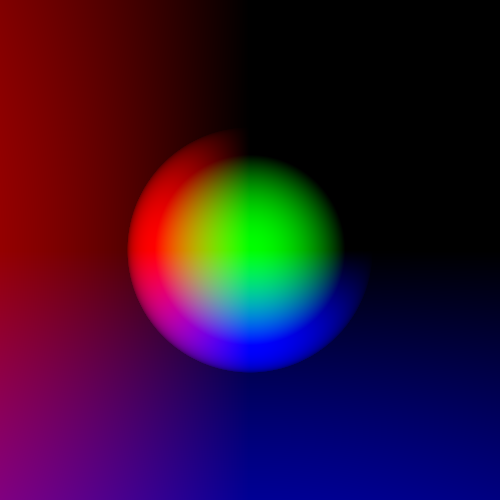
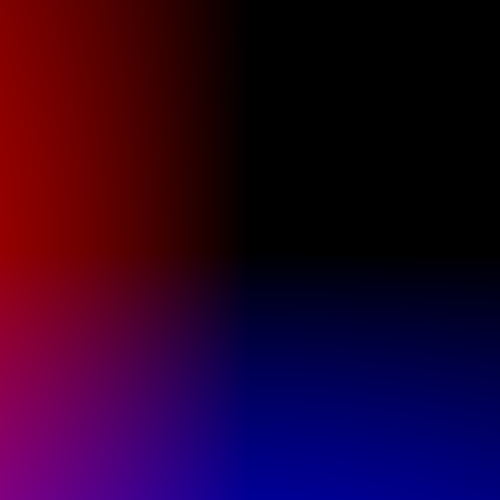
Added second sphere to test multi ball reflection. Fixed hit being detected behind the ray.

Changed region(s): [[0.24, 0.27, 0.75, 0.75]]

diff --git a/RayTracer.py b/RayTracer.py
@@ -66,13 +66,16 @@ class Camera:
         bounce = 0
         while bounce < self.maxBounces+1:
             bounce += 1
+            hitAnything = False
             for sphere in self.scene.shapeList:
                 hit,hitPos,hitNormal = raySphereIntersection(pixelRay,sphere)
                 if hit:
-                    pixelRay.direction = -Vec3.reflect(pixelRay.direction,hitNormal)
+                    pixelRay.direction = Vec3.reflect(pixelRay.direction,hitNormal)
                     pixelRay.origin = hitPos
-                # return hitNormal
-                # return Vec3(1,1,1)
+                    hitAnything = True
+            
+            if not hitAnything:
+                break
         
         return -pixelRay.direction
     

diff --git a/intersections.py b/intersections.py
@@ -15,12 +15,19 @@ def raySphereIntersection(ray:Ray,sphere:Sphere) -> tuple[bool, Vec3,Vec3]:
         d = -Vec3.dot(u,o-c)
         hitPoint = o+u*d
         normal = Vec3.getNormal(hitPoint,c)
-        return True,hitPoint,normal
+        if d >= 0:
+            return True,hitPoint,normal
+        else:
+            return False,Vec3.ZERO,Vec3.ZERO
     elif nabla > 0:
         d = -Vec3.dot(u,o-c) - sqrt(nabla)
         # dFurthest = -Vec3.dot(u,o-c) + sqrt(nabla)
         hitPoint = o+u*d
         normal = Vec3.getNormal(hitPoint,c)
-        return True,hitPoint,normal
+        if d >= 0:
+            return True,hitPoint,normal
+        else:
+            return False,Vec3.ZERO,Vec3.ZERO
+
     else:
         return False,Vec3.ZERO,Vec3.ZERO

diff --git a/main.py b/main.py
@@ -4,7 +4,8 @@ from Shapes import Scene, Sphere
 
 from time import time
 
-scene = Scene([Sphere(Vec3(0,3,0),1)])
+# scene = Scene([Sphere(Vec3(0,3,0),1),Sphere(Vec3(2,3,0),1)])
+scene = Scene([Sphere(Vec3(0,-3,0),1)])
 
 cam = Camera(Vec3(0,0,0),Vec3(0,1,0),(500,500),25,scene,0)
 

diff --git a/Shapes.py b/Shapes.py
@@ -6,7 +6,7 @@ class Ray:
         self.direction = direction
 
 class Scene:
-    def __init__(self,shapeList:list[Sphere]):
+    def __init__(self,shapeList:list['Sphere']):
         self.shapeList = shapeList
 
 class Sphere:
